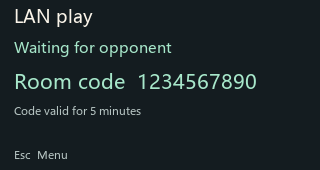
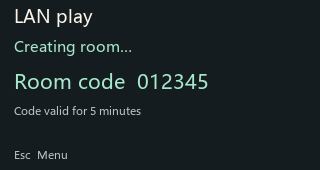
Use six-digit LAN room codes in Five 1.2.1-3

Changed region(s): [[0.0312, 0.2353, 0.5312, 0.3529], [0.4062, 0.4118, 0.8125, 0.5294]]

diff --git a/pairing/index.ts b/pairing/index.ts
@@ -8,9 +8,10 @@ function validDescription(value: unknown): value is string {
     value.includes("m=application ");
 }
 
-function newCode() {
+function newCode(length: number) {
   const [high, low] = crypto.getRandomValues(new Uint32Array(2));
-  return ((BigInt(high) * 4294967296n + BigInt(low)) % 10000000000n).toString().padStart(10, "0");
+  return ((BigInt(high) * 4294967296n + BigInt(low)) % (10n ** BigInt(length)))
+    .toString().padStart(length, "0");
 }
 
 async function database(path: string, method = "GET", body?: object | string, rows = false) {
@@ -64,12 +65,21 @@ Deno.serve(async (request) => {
     const {action, code, key, sdp} = input;
     if (action === "offer") {
       if (!validDescription(sdp)) return send({error: "invalid_request"}, 400);
-      const generated = newCode(), secret = crypto.randomUUID();
-      const inserted = await database("rpc/five_create_pair", "POST",
-        {p_code: generated, p_host_key: secret, p_offer: sdp});
-      return inserted ? send({code: generated, key: secret}) : send({error: "try_later"}, 429);
+      // Older Zero clients still require ten digits.
+      const length = input.code_length === 6 ? 6 : 10;
+      const secret = crypto.randomUUID();
+      for (let attempt = 0; attempt < 3; attempt++) {
+        const generated = newCode(length);
+        if (await database("rpc/five_create_pair", "POST",
+          {p_code: generated, p_host_key: secret, p_offer: sdp})) {
+          return send({code: generated, key: secret});
+        }
+      }
+      return send({error: "try_later"}, 429);
     }
-    if (typeof code !== "string" || !/^[0-9]{10}$/.test(code)) return send({error: "wrong_code"}, 404);
+    if (typeof code !== "string" || !/^(?:[0-9]{6}|[0-9]{10})$/.test(code)) {
+      return send({error: "wrong_code"}, 404);
+    }
     const params = new URLSearchParams({code: `eq.${code}`, expires_at: `gt.${new Date().toISOString()}`});
     if (action === "lookup") {
       params.set("select", "offer");

diff --git a/web/five.js b/web/five.js
@@ -17,8 +17,8 @@ const strings = {
     try_later: "配对服务繁忙，请稍后重试。",
     create: "创建房间", creating: "正在创建房间…",
     roomGuide: "Zero 和网页可以互相加入。双方请连接同一局域网，配对时需要联网。",
-    webJoin: "输入对手分享的 10 位房间码。",
-    webCreate: "创建后把 10 位房间码发给对手。双方请连接同一局域网。",
+    webJoin: "输入对手分享的 6 位房间码。",
+    webCreate: "创建后把 6 位房间码发给对手。双方请连接同一局域网。",
     webWait: "请保持此标签页打开，配对码 5 分钟内有效。",
     pair_failed: "配对中断。请确认双方在同一局域网，然后重新创建或加入。",
     pair_expired: "房间码已过期，请重新创建。",
@@ -44,8 +44,8 @@ const strings = {
     try_later: "Pairing service is busy. Try again shortly.",
     create: "Create room", creating: "Creating room…",
     roomGuide: "Play across Zero devices and browsers. Use the same LAN. Pairing needs internet access.",
-    webJoin: "Enter the 10-digit code from your opponent.",
-    webCreate: "Share the 10-digit code after creating the room. Both players must be on the same LAN.",
+    webJoin: "Enter the 6-digit code from your opponent.",
+    webCreate: "Share the 6-digit code after creating the room. Both players must be on the same LAN.",
     webWait: "Keep this tab open. The pairing code expires in five minutes.",
     pair_failed: "Pairing was interrupted. Check that both players are on the same LAN, then try again.",
     pair_expired: "The room code expired. Create a new room.",

diff --git a/web/peer.js b/web/peer.js
@@ -218,7 +218,7 @@ class BrowserPeer {
     this.attach(this.pc.createDataChannel("five"));
     await this.pc.setLocalDescription(await this.pc.createOffer());
     await gatherIce(this.pc);
-    this.receipt = await signalRoom("offer", {sdp: this.pc.localDescription.sdp});
+    this.receipt = await signalRoom("offer", {sdp: this.pc.localDescription.sdp, code_length: 6});
     this.waitForAnswer().catch(() => this.close("pair_failed"));
     return {code: this.receipt.code, color: this.match.hostColor, state: this.match.state()};
   }

diff --git a/web/index.html b/web/index.html
@@ -24,7 +24,7 @@
       <form id="room-form" hidden>
         <div id="code-fields">
           <label for="code" id="code-label">房间码</label>
-          <input id="code" inputmode="numeric" pattern="[0-9]{10}" maxlength="10" autocomplete="off" required>
+          <input id="code" inputmode="numeric" pattern="[0-9]{6}" maxlength="6" autocomplete="off" required>
         </div>
         <div id="create-options" hidden>
           <label for="first" id="first-label">先手</label>

diff --git a/ui.py b/ui.py
@@ -26,7 +26,7 @@ LABELS = {
     "lan_help": ("联机说明", "LAN guide"),
     "cannot_undo": ("当前无法悔棋", "Cannot undo now"),
     "lan_join": ("加入房间", "Join room"),
-    "lan_code_hint": ("请输入对手分享的 10 位房间码", "Enter the 10-digit code from your opponent"),
+    "lan_code_hint": ("请输入对手分享的 6 位房间码", "Enter the 6-digit code from your opponent"),
     "pair_failed": ("配对失败，请重新加入", "Pairing failed. Try joining again."),
     "pair_unavailable": ("配对服务暂不可用", "Pairing service unavailable"),
     "pair_expired": ("房间码已过期，请重新创建", "Code expired. Create a new room."),
@@ -299,12 +299,12 @@ class Screen:
 
         if app.page == "lan_help":
             text(14, 7, tr("lan_help"), 18)
-            lines = (("双方接入同一局域网，配对时需要联网。", "Zero 或网页都可创建房间，分享 10 位房间码。",
+            lines = (("双方接入同一局域网，配对时需要联网。", "Zero 或网页都可创建房间，分享 6 位房间码。",
                       "对手选「加入房间」，输入房间码即可。",
                       "网页地址：fivezero.vercel.app",
                       "请保持房主的应用或网页开启。",
                       "若房间允许悔棋，轮到自己时按 U 退两手。") if lang == "zh" else
-                     ("Use the same LAN. Pairing requires internet access.", "Host on Zero or the web and share the 10-digit code.",
+                     ("Use the same LAN. Pairing requires internet access.", "Host on Zero or the web and share the 6-digit code.",
                       "Choose Join room and enter the code on either device.", "Website: fivezero.vercel.app",
                       "Keep the host application or browser tab open.", "When enabled, press U on your turn to undo two moves."))
             for index, line in enumerate(lines):

diff --git a/five.py b/five.py
@@ -15,7 +15,7 @@ from time import monotonic
 from game import BLACK, WHITE, FOULS, Game
 from lan_session import LanSession
 from rapfi_engine import pick_move
-from rtc_peer import RtcPeer
+from rtc_peer import ROOM_CODE_LENGTH, RtcPeer
 
 SIZES = (15, 13)
 RULES = ("free", "renju")
@@ -342,10 +342,10 @@ class App:
         if self.page == "lan_input":
             if key == "backspace":
                 self.room_code = self.room_code[:-1]
-            elif len(key) == 1 and key in "0123456789" and len(self.room_code) < 10:
+            elif len(key) == 1 and key in "0123456789" and len(self.room_code) < ROOM_CODE_LENGTH:
                 self.room_code += key
             elif key == "enter":
-                if len(self.room_code) != 10:
+                if len(self.room_code) != ROOM_CODE_LENGTH:
                     self.notice = "lan_code_hint"
                     return
                 self.lan = LanSession(RtcPeer(), self.room_code)

diff --git a/rtc_peer.py b/rtc_peer.py
@@ -11,6 +11,7 @@ from uuid import uuid4
 from lan import Room, RoomError
 
 SIGNAL_URL = "https://wmoaxlrncbfcsyqtfbku.supabase.co/functions/v1/five-pair"
+ROOM_CODE_LENGTH = 6
 
 
 def signal(action, timeout=8, **data):
@@ -102,7 +103,8 @@ class RtcPeer:
         description = self.open_connection()
         self.attach(self.pc.createDataChannel("five"))
         await self.pc.setLocalDescription(await self.pc.createOffer())
-        self.receipt = await asyncio.to_thread(signal, "offer", sdp=self.pc.localDescription.sdp)
+        self.receipt = await asyncio.to_thread(
+            signal, "offer", sdp=self.pc.localDescription.sdp, code_length=ROOM_CODE_LENGTH)
         seat = self.room.add_player()
         self.pairing = self.loop.create_task(self.wait_for_answer(description))
         return {**seat, "code": self.receipt["code"]}

diff --git a/build_package.py b/build_package.py
@@ -43,7 +43,7 @@ def main():
     launcher = "usr/share/APPLaunch"
     icon_path = f"{launcher}/share/images/five.png"
     control = """Package: five
-Version: 1.2.1-2
+Version: 1.2.1-3
 Section: games
 Priority: optional
 Architecture: arm64
@@ -82,7 +82,7 @@ Categories=Game;BoardGame;
         f"{docs}/LICENSE": ((root / "LICENSE").read_bytes(), 0o644),
         f"{docs}/build_rapfi.ps1": ((root / "build_rapfi.ps1").read_bytes(), 0o644),
     })
-    output = root / "dist" / "five_1.2.1-2_arm64.deb"
+    output = root / "dist" / "five_1.2.1-3_arm64.deb"
     output.parent.mkdir(exist_ok=True)
     output.write_bytes(b"!<arch>\n" + b"".join((
         ar_member("debian-binary", b"2.0\n"),

diff --git a/README.md b/README.md
@@ -4,10 +4,10 @@
 
 ## 安装
 
-将 `dist/five_1.2.1-2_arm64.deb` 复制到 Cardputer Zero，在设备上运行：
+将 `dist/five_1.2.1-3_arm64.deb` 复制到 Cardputer Zero，在设备上运行：
 
 ```sh
-sudo apt install ./five_1.2.1-2_arm64.deb
+sudo apt install ./five_1.2.1-3_arm64.deb
 ```
 
 安装后从应用启动器打开 **Five**。
@@ -16,12 +16,12 @@ sudo apt install ./five_1.2.1-2_arm64.deb
 
 Zero 和 [Five 网页版](https://fivezero.vercel.app) 使用同一套流程。Zero 的入口在「局域网联机」菜单内，网页直接显示两个按钮。
 
-1. 房主选「创建房间」，设置先手、规则、棋盘和悔棋，确认后把自动生成的 10 位房间码发给对手。
-2. 对手选「加入房间」，输入这 10 位房间码。任何一方都可以用 Zero 或网页。
+1. 房主选「创建房间」，设置先手、规则、棋盘和悔棋，确认后把自动生成的 6 位房间码发给对手。
+2. 对手选「加入房间」，输入这 6 位房间码。任何一方都可以用 Zero 或网页。
 
 双方应接入同一局域网。创建和加入时需要联网交换配对信息，落子通过 WebRTC 在双方之间直连。目前仅支持局域网对战。房间码 5 分钟内有效，对局时保持应用或网页打开。开启悔棋后，轮到自己时按 `U` 或点击「悔棋」回到自己上一手之前。
 
-On a Zero or the [Five web app](https://fivezero.vercel.app), choose **Create room**, set the match options, and share the generated 10-digit code. The other player chooses **Join room** and enters the code. Either device can host or join. Both players should be on the same LAN. Internet access is required for pairing, and moves travel directly between players over WebRTC. The code is valid for five minutes. Keep Five or the browser tab open during the game.
+On a Zero or the [Five web app](https://fivezero.vercel.app), choose **Create room**, set the match options, and share the generated 6-digit code. The other player chooses **Join room** and enters the code. Either device can host or join. Both players should be on the same LAN. Internet access is required for pairing, and moves travel directly between players over WebRTC. The code is valid for five minutes. Keep Five or the browser tab open during the game.
 
 ## 商店简介
 
@@ -29,11 +29,11 @@ On a Zero or the [Five web app](https://fivezero.vercel.app), choose **Create ro
 
 **简体中文**
 
-在 Cardputer Zero 上下五子棋。可与 Rapfi 对弈，选择三档难度，也可在同一台设备轮流落子。联机时，Zero 和浏览器都可创建房间，用 10 位房间码加入。同一局域网内可双 Zero、双网页或混合对战，电脑无需安装或运行额外程序。支持 15×15 和 13×13 棋盘、自由规则与连珠禁手，界面提供简体中文和英文。联机配对需要互联网连接，对局在局域网内直连。网页版：https://fivezero.vercel.app/
+在 Cardputer Zero 上下五子棋。可与 Rapfi 对弈，选择三档难度，也可在同一台设备轮流落子。联机时，Zero 和浏览器都可创建房间，用 6 位房间码加入。同一局域网内可双 Zero、双网页或混合对战，电脑无需安装或运行额外程序。支持 15×15 和 13×13 棋盘、自由规则与连珠禁手，界面提供简体中文和英文。联机配对需要互联网连接，对局在局域网内直连。网页版：https://fivezero.vercel.app/
 
 **English**
 
-Play Gomoku against Rapfi at three difficulty levels, take turns on one Cardputer Zero, or play over your LAN. Either a Zero or a browser can host or join using a 10-digit room code. The browser needs no extra software. Choose a 15×15 or 13×13 board with Freestyle or Renju fouls. The interface supports Simplified Chinese and English. Pairing requires internet access. Moves travel directly between players on the LAN. Web app: https://fivezero.vercel.app/
+Play Gomoku against Rapfi at three difficulty levels, take turns on one Cardputer Zero, or play over your LAN. Either a Zero or a browser can host or join using a 6-digit room code. The browser needs no extra software. Choose a 15×15 or 13×13 board with Freestyle or Renju fouls. The interface supports Simplified Chinese and English. Pairing requires internet access. Moves travel directly between players on the LAN. Web app: https://fivezero.vercel.app/
 
 ## 截图 / Screenshots
 
@@ -45,6 +45,11 @@ Play Gomoku against Rapfi at three difficulty levels, take turns on one Cardpute
 | ![等待对手](screenshots/room-code-zh.png) | ![Waiting for opponent](screenshots/room-code-en.png) |
 
 ## 最近改动 / What's new
+
+**1.2.1-3**
+
+- Zero 和网页版改用 6 位房间码创建和加入局域网对局。
+- Zero and the web app now use 6-digit codes to create and join LAN games.
 
 **1.2.1-2**
 
